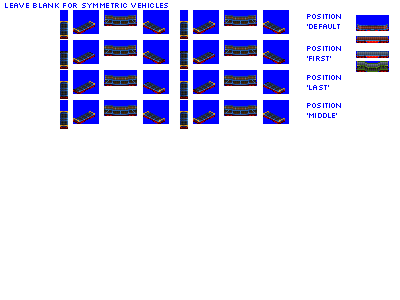
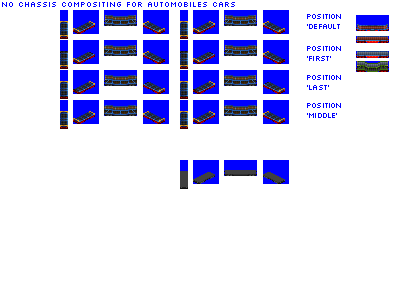
Change: WIP on double deck automobile transporters

diff --git a/src/vehicles/double_deck_automobile_cars.py b/src/vehicles/double_deck_automobile_cars.py
@@ -1,38 +1,58 @@
 from train import AutomobileDoubleDeckCarConsist, AutomobileCar
 
-
 def main():
     # --------------- pony ----------------------------------------------------------------------
     # intro gen 4
 
     consist = AutomobileDoubleDeckCarConsist(
-        roster_id="pony", base_numeric_id=5790, gen=4, subtype="B"
+        roster_id="pony",
+        base_numeric_id=5790,
+        gen=4,
+        subtype="B",
+        sprites_complete=False,
     )
 
-    consist.add_unit(type=AutomobileCar, chassis="2_axle_filled_greebled_24px")
+    consist.add_unit(type=AutomobileCar, vehicle_length=6)
 
     consist = AutomobileDoubleDeckCarConsist(
-        roster_id="pony", base_numeric_id=5800, gen=4, subtype="C"
+        roster_id="pony",
+        base_numeric_id=5800,
+        gen=4,
+        subtype="C",
+        sprites_complete=False,
     )
 
-    consist.add_unit(type=AutomobileCar, chassis="4_axle_solid_express_32px")
-    consist = AutomobileDoubleDeckCarConsist(
-        roster_id="pony", base_numeric_id=5810, gen=5, subtype="B"
-    )
-
-    consist.add_unit(type=AutomobileCar, chassis="2_axle_filled_greebled_24px")
-
-    consist = AutomobileDoubleDeckCarConsist(
-        roster_id="pony", base_numeric_id=5820, gen=5, subtype="C"
-    )
-
-    consist.add_unit(type=AutomobileCar, chassis="4_axle_solid_express_32px")
+    consist.add_unit(type=AutomobileCar, vehicle_length=8)
 
     consist = AutomobileDoubleDeckCarConsist(
-        roster_id="pony", base_numeric_id=5840, gen=6, subtype="C"
+        roster_id="pony",
+        base_numeric_id=5810,
+        gen=5,
+        subtype="B",
+        sprites_complete=False,
     )
 
-    consist.add_unit(type=AutomobileCar, chassis="4_axle_solid_express_32px")
+    consist.add_unit(type=AutomobileCar, vehicle_length=6)
+
+    consist = AutomobileDoubleDeckCarConsist(
+        roster_id="pony",
+        base_numeric_id=5820,
+        gen=5,
+        subtype="C",
+        sprites_complete=False,
+    )
+
+    consist.add_unit(type=AutomobileCar, vehicle_length=8)
+
+    consist = AutomobileDoubleDeckCarConsist(
+        roster_id="pony",
+        base_numeric_id=5840,
+        gen=6,
+        subtype="C",
+        sprites_complete=False,
+    )
+
+    consist.add_unit(type=AutomobileCar, vehicle_length=8)
 
     consist = AutomobileDoubleDeckCarConsist(
         roster_id="pony",
@@ -44,12 +64,12 @@ def main():
 
     consist.add_unit(
         type=AutomobileCar,
-        chassis="2_axle_1cc_filled_20px",
+        vehicle_length=5,
         spriterow_num=0,
     )
 
     consist.add_unit(
         type=AutomobileCar,
-        chassis="2_axle_1cc_filled_20px",
+        vehicle_length=5,
         spriterow_num=1,
     )
